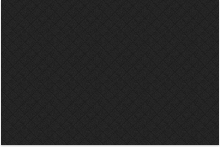
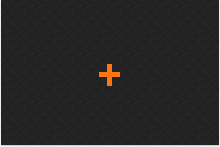
new

Changed region(s): [[0.4364, 0.4354, 0.5455, 0.5986]]

diff --git a/styles.css b/styles.css
@@ -8,12 +8,31 @@ body {
 	font-variant: normal;
 	text-transform: none;
 	color: #525252;
+	background: url(background.png);
+}
+.button
+{
+width: 143px;
+height: 30px;
+background-color: black;
+background-image: linear-gradient(to top, #0c0c0c 0%, #282828 100%);
+border: 1px solid #0e0e0e;
+box-shadow: 0.5px 0.9px 1px rgba(4, 4, 4, 0.3), inset 0.7px 0.8px 1px rgba(255, 255, 255, 0.43);
 }
 table.main {
+	margin-left: 210px;
+	width: 60%;
+	height: 100%;
+	border-collapse: collapse;
+	
+	/*table-layout: fixed;*/
+}
+table.main2 {
+	margin-left: 210px;
 	width: 100%;
 	height: 100%;
 	border-collapse: collapse;
-	background: url(background.png);
+	background: url(Orange copy.png);
 	/*table-layout: fixed;*/
 }
 .text1 {
@@ -53,7 +72,7 @@ a:hover {
   color: #f70211;
 }
 .button1 {
-background: #cc8400;
+background: #000000;
 border-style: hidden; /* Параметры рамки */
 border-radius: 30px;
 width: 145px; /* Ширина кнопки */
@@ -67,6 +86,16 @@ border-radius: 0px;
 width: 30px; /* Ширина кнопки */
 height: 35px; /* Высота */
 }
+.button3
+{
+/* Style for "Shape 1 copy 3" */
+width: 19px;
+height: 19px;
+border-radius: 30px;
+background-color: #e6e6e6;
+background-image: linear-gradient(to top, rgba(0, 0, 0, 0.14) 0%, rgba(255, 255, 255, 0.14) 100%);
+box-shadow: 0 1px 1px rgba(0, 0, 0, 0.3), inset 0.5px 0.9px 0.7px 0.3px rgba(255, 255, 255, 0.73);
+}
 .text2 {
 color: #ffffff;
 font-family: Helvetica Bold;
@@ -77,6 +106,6 @@ font-weight: bold;
 line-height: 2;
 color: #ffffff;
 font-family: Georgia Regular;
-font-size: 12px;
+font-size: 13px;
 font-style: italic;
 }
